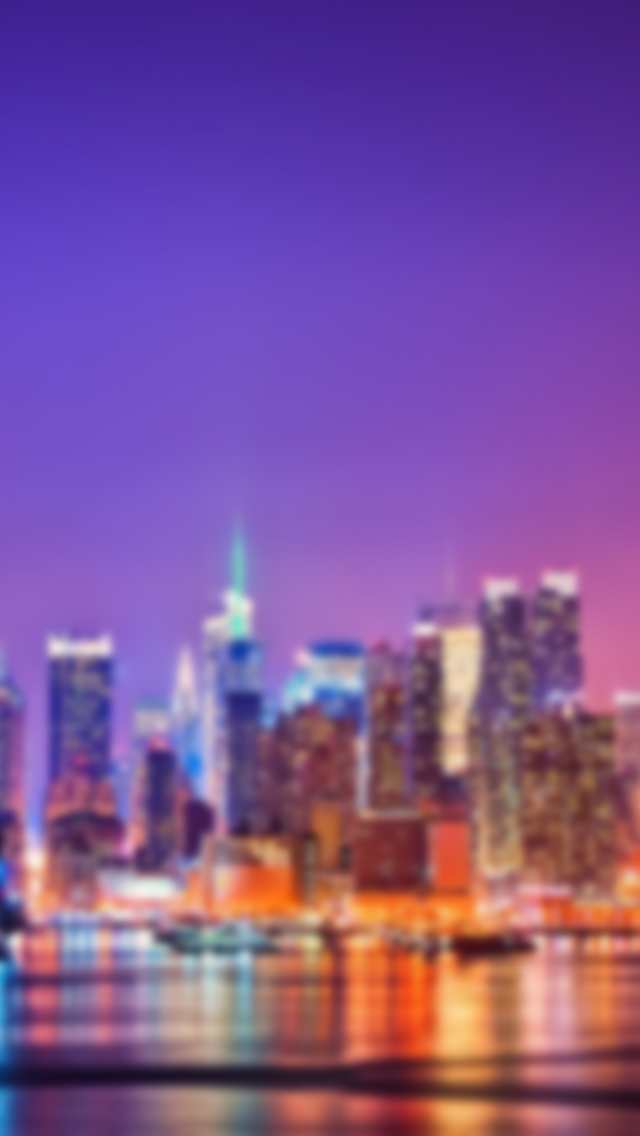
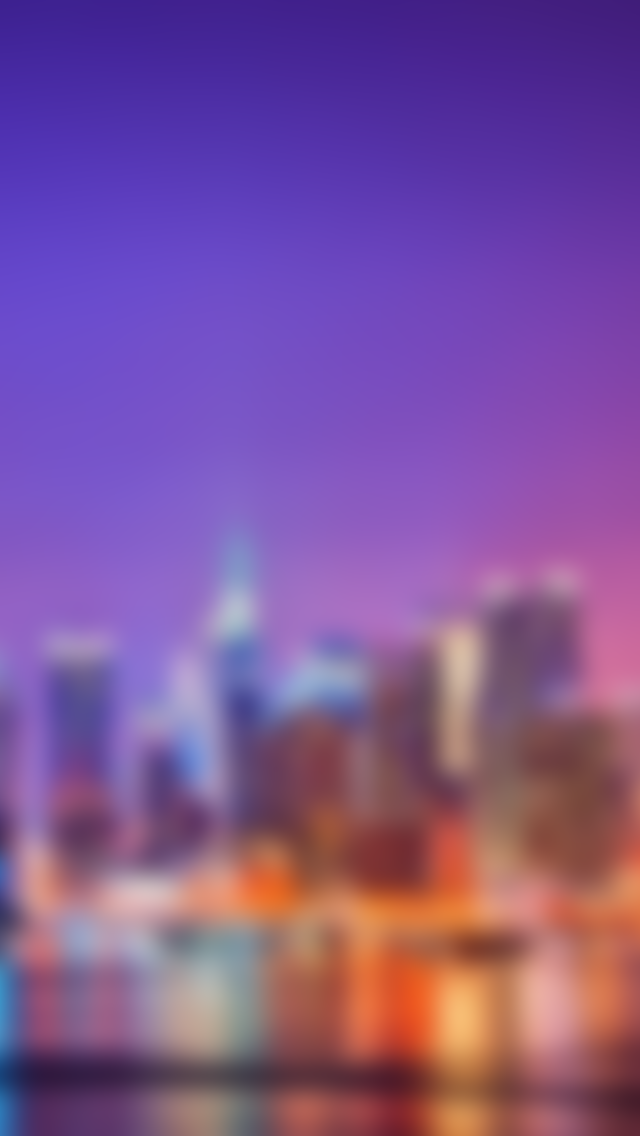
final fixes

Changed region(s): [[0.0, 0.4621, 1.0, 1.0], [0.9062, 0.6778, 0.9375, 0.7086], [0.8125, 0.647, 0.8438, 0.6778]]

diff --git a/JustMovdApp/IntroParentViewController.m b/JustMovdApp/IntroParentViewController.m
@@ -37,8 +37,9 @@
 {
     [super viewDidLoad];
     
-    backgroundImages = [[NSArray alloc] initWithObjects:@"redfrontdoor_blur", @"skyline_blur", @"login2", nil];
-    self.view.backgroundColor = [UIColor colorWithRed:80/255.0 green:177/255.0 blue:246/255.0 alpha:1.0];
+    backgroundImages = [[NSArray alloc] initWithObjects:@"chicago_skyline_blur", @"skyline_blur", @"boston_skyline_blur", nil];
+    //self.view.backgroundColor = [UIColor colorWithRed:80/255.0 green:177/255.0 blue:246/255.0 alpha:1.0];
+    self.view.backgroundColor = [UIColor colorWithPatternImage:[UIImage imageNamed:@"skyline_blur"]];
 
     [self loadIntro];
     
@@ -50,6 +51,7 @@
     pageController = [[UIPageViewController alloc] initWithTransitionStyle:UIPageViewControllerTransitionStyleScroll navigationOrientation:UIPageViewControllerNavigationOrientationHorizontal options:nil];
     
     pageController.dataSource = self;
+    pageController.delegate = self;
     [[pageController view] setFrame:[[self view] bounds]];
     
     CGRect frame = pageController.view.frame;
@@ -68,7 +70,7 @@
     
     
     UIButton *nextButton = [UIButton buttonWithType:UIButtonTypeCustom];
-    [nextButton setBackgroundImage:[UIImage imageNamed:@"facebooklogin"] forState:UIControlStateNormal];
+    [nextButton setBackgroundImage:[UIImage imageNamed:@"FacebookLoginButton"] forState:UIControlStateNormal];
     [nextButton sizeToFit];
     nextButton.center = CGPointMake(160, 480);
     
@@ -79,13 +81,25 @@
     UILabel *justMovdLabel = [[UILabel alloc] initWithFrame:CGRectMake(40, 200, 200, 50)];
     
     justMovdLabel.text = @"JustMovd";
-    justMovdLabel.font = [UIFont fontWithName:@"Roboto-Medium" size:28];
+    justMovdLabel.font = [UIFont fontWithName:@"Roboto-Medium" size:32];
     justMovdLabel.textAlignment = NSTextAlignmentCenter;
     
     justMovdLabel.center = CGPointMake(self.view.frame.size.width/2, 100);
     justMovdLabel.textColor = [UIColor whiteColor];
     
     [self.view addSubview:justMovdLabel];
+    
+    UILabel *descriptionLabel = [[UILabel alloc] initWithFrame:CGRectMake(40, 400, 300, 50)];
+
+    descriptionLabel.text = @"The App For People New To A City";
+    descriptionLabel.font = [UIFont fontWithName:@"Roboto-Medium" size:15];
+    descriptionLabel.textAlignment = NSTextAlignmentCenter;
+    
+    descriptionLabel.center = CGPointMake(self.view.frame.size.width/2, 250);
+    descriptionLabel.textColor = [UIColor whiteColor];
+
+    [self.view addSubview:descriptionLabel];
+    
     
     pageControl = [[UIPageControl alloc] init];
     pageControl.numberOfPages = 3;
@@ -272,6 +286,7 @@
     }
     
     index--;
+    pageControl.currentPage--;
     
     return [self viewControllerAtIndex:index];
     
@@ -282,6 +297,7 @@
     NSUInteger index = [(IntroChildViewController *)viewController index];
     
     index++;
+    pageControl.currentPage++;
     
     
     if (index == 3) {
@@ -319,6 +335,7 @@
     return firstName;
     
 }
+
 
 
 @end

diff --git a/JustMovdApp/QuestionnaireViewController.m b/JustMovdApp/QuestionnaireViewController.m
@@ -50,9 +50,9 @@
     [self getUserLocation];
     
     
-    //self.view.backgroundColor = [UIColor colorWithPatternImage:[UIImage imageNamed:@"background3_size.png"]];
+    self.view.backgroundColor = [UIColor colorWithPatternImage:[UIImage imageNamed:@"couple_blur"]];
     
-    self.view.backgroundColor = [UIColor colorWithRed:26/255.0 green:158/255.0 blue:151/255.0 alpha:1.0];
+    //self.view.backgroundColor = [UIColor colorWithRed:26/255.0 green:158/255.0 blue:151/255.0 alpha:1.0];
     
     answers = [NSMutableArray new];
     questionViewsArray = [NSMutableArray new];
@@ -133,7 +133,7 @@
 
 -(void)makeQuestionViews{
     
-    questionsHolder = [[UIView alloc] initWithFrame:CGRectMake(30, 60, 320*([questions count]+1), 400)];
+    questionsHolder = [[UIView alloc] initWithFrame:CGRectMake(30, 84, 320*([questions count]+1), 400)];
     [self.view addSubview:questionsHolder];
     
     int spacing = 320;

diff --git a/JustMovdApp/QuestionView.m b/JustMovdApp/QuestionView.m
@@ -42,7 +42,7 @@
         or1.textAlignment = NSTextAlignmentCenter;
         [self addSubview:or1];
         
-        self.backgroundColor = [UIColor colorWithWhite:1 alpha:0.90];
+        self.backgroundColor = [UIColor colorWithWhite:1 alpha:0.80];
         
         UIButton *button1 = [UIButton buttonWithType:UIButtonTypeCustom];
         [button1 setBackgroundImage:[UIImage imageNamed:firstImage] forState:UIControlStateNormal];

diff --git a/JustMovdApp/IntroParentViewController.h b/JustMovdApp/IntroParentViewController.h
@@ -11,7 +11,7 @@
 #import "QuestionnaireVCDelegate.h"
 
 
-@interface IntroParentViewController : UIViewController <UIPageViewControllerDataSource, CommsDelegate, QuestionnaireVCDelegate>
+@interface IntroParentViewController : UIViewController <UIPageViewControllerDataSource, CommsDelegate, QuestionnaireVCDelegate, UIPageViewControllerDelegate>
 
 @property (strong, nonatomic) UIPageViewController *pageController;
 
